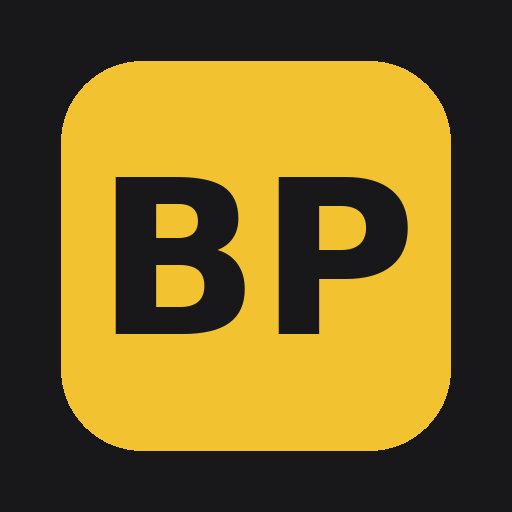
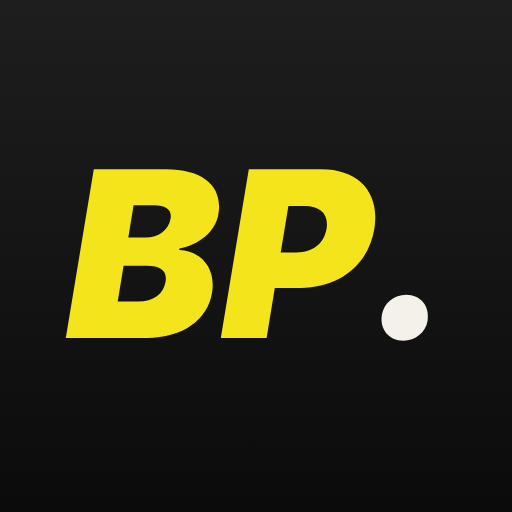
Add files via upload

diff --git a/index.html b/index.html
@@ -93,10 +93,10 @@ react-dom/cjs/react-dom-client.production.js:
 :root{
   --bg:#F4F3EF; --surface:#FFFFFF; --surface-2:#FAFAF7; --line:#E6E4DD; --line-2:#D9D6CC;
   --ink:#18181A; --ink-2:#3A3A3E; --muted:#7A786F; --faint:#A9A69B;
-  --accent:#F2C230; --accent-ink:#5C4500; --accent-soft:#FDF4D3;
+  --accent:#F4E41C; --accent-ink:#4A4300; --accent-soft:#FBF7CF;
   --side:#161618; --side-2:#232326; --side-ink:#ECEAE3; --side-muted:#8E8C84;
   --ok:#2F7D4F; --ok-soft:#E3F1E8; --warn:#B26A00; --warn-soft:#FBEBD2; --bad:#B23A2E; --bad-soft:#F7E0DC; --info:#2D5C8A; --info-soft:#E1EAF3;
-  --c-init:#9A988F; --c-inter:#F2C230; --c-final:#18181A;
+  --c-init:#9A988F; --c-inter:#F4E41C; --c-final:#18181A;
   --r:10px; --r-sm:7px;
 }
 *{box-sizing:border-box}
@@ -109,6 +109,7 @@ button,input,select,textarea{font:inherit;color:inherit}
 .side{background:var(--side);color:var(--side-ink);display:flex;flex-direction:column;overflow:auto}
 .brand{padding:20px 20px 16px;border-bottom:1px solid #2b2b2f}
 .brand-mark{display:flex;align-items:center;gap:10px}
+.brand-mark2 .wm{height:26px;width:auto;display:block}.brand-mark2 .mono{width:56px;height:56px;display:block;border-radius:13px;box-shadow:0 6px 18px rgba(0,0,0,.18)}.brand-sub{color:var(--side-muted);font-weight:700;letter-spacing:.2em;font-size:9.5px;margin-top:6px;padding-left:2px}
 .logo{width:30px;height:30px;border-radius:7px;background:var(--accent);color:#161618;display:grid;place-items:center;font-weight:800;font-size:13px;letter-spacing:-.5px}
 .brand-name{font-weight:800;letter-spacing:.06em;font-size:12.5px;line-height:1.15}
 .brand-name span{display:block;color:var(--side-muted);font-weight:600;letter-spacing:.14em;font-size:10px}
@@ -292,7 +293,7 @@ const html=htm.bind(React.createElement);
 /* =========================================================
    CONSTANTES
    ========================================================= */
-const APP_VERSION="0.9.7";
+const APP_VERSION="0.9.8";
 const SECURE=!!window.BPPS_SECURE;
 const STORE_KEY="bpps_store_v1";
 const STATUTS_PATIENT=["Actif","En pause","Terminé","Archivé"];
@@ -643,7 +644,7 @@ function Sidebar({db,view,setView,pid,setPid,saved,vault}){
   const p=db.patients.find(x=>x.id===pid);
   const opts=db.patients.filter(x=>x.statut!=="Archivé"||x.id===pid);
   return html`<aside className="side">
-    <div className="brand"><div className="brand-mark"><div className="logo">BP</div><div className="brand-name">BP PHYSIOSPORT<span>SUITE · v${APP_VERSION}</span></div></div></div>
+    <div className="brand"><div className="brand-mark2"><div dangerouslySetInnerHTML=${{__html:LOGO_DARK}}></div><div className="brand-sub">SUITE · v${APP_VERSION}</div></div></div>
     <div className="side-sec">
       <button className=${"nav-btn"+(view==="today"?" on":"")} onClick=${()=>setView("today")}><${Ico} n="cal"/>Aujourd'hui</button>
       <button className=${"nav-btn"+(view==="patients"?" on":"")} onClick=${()=>setView("patients")}><${Ico} n="users"/>Patients<span className="tag">${db.patients.filter(x=>x.statut!=="Archivé").length}</span></button>
@@ -664,7 +665,7 @@ function Sidebar({db,view,setView,pid,setPid,saved,vault}){
       ${NAV_GLOBAL.map(([k,l,ic,tag])=>html`<button key=${k} className=${"nav-btn"+(view===k?" on":"")} onClick=${()=>setView(k)}><${Ico} n=${ic}/>${l}${tag&&html`<span className="tag">${tag}</span>`}</button>`)}
     </div>
     <div className="side-foot">
-      <div><span className="dot" style=${{background:storage.ok?(saved?"#5BBE7F":"#F2C230"):"#D9584A"}}></span>${storage.ok?(saved?(vault?"Coffre chiffré · enregistré":"Enregistré dans ce navigateur"):"Enregistrement…"):"Stockage local indisponible"}</div>
+      <div><span className="dot" style=${{background:storage.ok?(saved?"#5BBE7F":"#F4E41C"):"#D9584A"}}></span>${storage.ok?(saved?(vault?"Coffre chiffré · enregistré":"Enregistré dans ce navigateur"):"Enregistrement…"):"Stockage local indisponible"}</div>
       ${vault?html`<button className="btn sm" style=${{marginTop:8,background:"transparent",color:"var(--side-ink)",borderColor:"#3a3a3f"}} onClick=${()=>vault.lock()}>🔒 Verrouiller</button>`:html`<div style=${{marginTop:6}}>Prototype · données fictives uniquement</div>`}
     </div>
   </aside>`;
@@ -886,7 +887,7 @@ const BC_ZONES={
   achille:{dos:{D:[71,230],G:[49,230]},label:"Tendon d'Achille"},
   cheville:{face:{D:[48,238],G:[72,238]},dos:{D:[72,238],G:[48,238]},label:"Cheville"}
 };
-const intensColor=v=>v>=7?"#B23A2E":v>=4?"#E08A1E":"#F2C230";
+const intensColor=v=>v>=7?"#B23A2E":v>=4?"#E08A1E":"#F4E41C";
 function Silhouette({vue,marks,label,big,onPick}){
   return html`<div style=${{textAlign:"center"}}>
     <svg viewBox="0 0 120 262" width="100%" style=${{maxWidth:big?230:130}}>
@@ -903,7 +904,7 @@ function Silhouette({vue,marks,label,big,onPick}){
       ${marks.map((m,i)=>{const z=BC_ZONES[m.zone];const pos=z&&z[vue]&&(z[vue][m.cote]||z[vue].B);if(!pos)return null;
         return html`<g key=${i}><circle cx=${pos[0]} cy=${pos[1]} r=${5+m.intensite*0.7} fill=${intensColor(m.intensite)} fillOpacity=".35" stroke=${intensColor(m.intensite)} strokeWidth="1.4"/><text x=${pos[0]} y=${pos[1]+3} textAnchor="middle" fontSize="8" fontWeight="800" fill="#18181A">${m.intensite}</text></g>`})}
       <text x="8" y="14" fontSize="8" fontWeight="700" fill="#A9A69B">${vue==="face"?"D":"G"}</text><text x="104" y="14" fontSize="8" fontWeight="700" fill="#A9A69B">${vue==="face"?"G":"D"}</text>
-    ${onPick&&Object.entries(BC_ZONES).flatMap(([k,z])=>z[vue]?Object.entries(z[vue]).map(([c,pos])=>html`<circle key=${k+c} className="bc-zone" cx=${pos[0]} cy=${pos[1]} r="7" fill="#F2C230" fillOpacity=".08" stroke="#9A988F" strokeWidth="0.8" strokeDasharray="2 2" style=${{cursor:"pointer"}} onClick=${()=>onPick(k,vue,c)}><title>Ajouter : ${z.label}${c==="B"?"":" "+sideLabel(c).toLowerCase()}</title></circle>`):[])}
+    ${onPick&&Object.entries(BC_ZONES).flatMap(([k,z])=>z[vue]?Object.entries(z[vue]).map(([c,pos])=>html`<circle key=${k+c} className="bc-zone" cx=${pos[0]} cy=${pos[1]} r="7" fill="#F4E41C" fillOpacity=".08" stroke="#9A988F" strokeWidth="0.8" strokeDasharray="2 2" style=${{cursor:"pointer"}} onClick=${()=>onPick(k,vue,c)}><title>Ajouter : ${z.label}${c==="B"?"":" "+sideLabel(c).toLowerCase()}</title></circle>`):[])}
       </svg>
     <div className="sub" style=${{fontWeight:700,fontSize:11.5,letterSpacing:".08em",textTransform:"uppercase"}}>${label}</div>
   </div>`;
@@ -1842,10 +1843,10 @@ function Gantt({phases}){
     <div style=${{position:"relative",paddingTop:18}}>
       ${months.map((mm,i)=>html`<div key=${i} style=${{position:"absolute",left:pct(mm)+"%",top:0,bottom:0,borderLeft:"1px dashed var(--line)"}}><span className="sub" style=${{fontSize:10.5,position:"absolute",top:0,left:4,whiteSpace:"nowrap"}}>${mm.toLocaleDateString("fr-FR",{month:"short",year:"2-digit"})}</span></div>`)}
       <div style=${{position:"absolute",left:pct(t)+"%",top:14,bottom:0,borderLeft:"2px solid var(--bad)",zIndex:2}}></div>
-      ${sortDate(phases,"debut").map(p=>{const s=parseD(p.debut),e=parseD(p.fin);if(!s)return null;const e2=e||new Date(+s+14*864e5);const c={"En cours":"#F2C230","À venir":"#FBE7A1","Terminée":"#C9C6BB","Suspendue":"#F0C98E"}[p.statut]||"#ddd";
+      ${sortDate(phases,"debut").map(p=>{const s=parseD(p.debut),e=parseD(p.fin);if(!s)return null;const e2=e||new Date(+s+14*864e5);const c={"En cours":"#F4E41C","À venir":"#FBE7A1","Terminée":"#C9C6BB","Suspendue":"#F0C98E"}[p.statut]||"#ddd";
         return html`<div key=${p.id} style=${{position:"relative",height:30,margin:"6px 0"}}><div title=${`${p.phase} ${p.cycle||""}`} style=${{position:"absolute",left:pct(s)+"%",width:Math.max(2,pct(e2)-pct(s))+"%",top:0,bottom:0,background:c,borderRadius:6,padding:"0 8px",display:"flex",alignItems:"center",fontSize:12,fontWeight:700,whiteSpace:"nowrap",overflow:"hidden",border:e?"":"1px dashed #999"}}>${p.phase}${p.cycle?" · "+p.cycle:""}</div></div>`})}
     </div>
-    <div className="legend" style=${{marginTop:10}}><span><i style=${{background:"var(--bad)",width:3}}></i>Aujourd'hui</span>${PH_STATUTS.map(s=>html`<span key=${s}><i style=${{background:{"En cours":"#F2C230","À venir":"#FBE7A1","Terminée":"#C9C6BB","Suspendue":"#F0C98E"}[s],height:8}}></i>${s}</span>`)}</div>
+    <div className="legend" style=${{marginTop:10}}><span><i style=${{background:"var(--bad)",width:3}}></i>Aujourd'hui</span>${PH_STATUTS.map(s=>html`<span key=${s}><i style=${{background:{"En cours":"#F4E41C","À venir":"#FBE7A1","Terminée":"#C9C6BB","Suspendue":"#F0C98E"}[s],height:8}}></i>${s}</span>`)}</div>
   </div>`;
 }
 function PlanifView(props){
@@ -1981,7 +1982,7 @@ function weeklyLoad(seances,nWeeks=8){
     weeks.push({start:s,tot,byType,n:ss.length,miss});}
   return weeks;
 }
-const TYPE_COL={"Kiné":"#18181A","Autonomie":"#9A988F","Entraînement club":"#F2C230","Match":"#B23A2E"};
+const TYPE_COL={"Kiné":"#18181A","Autonomie":"#9A988F","Entraînement club":"#F4E41C","Match":"#B23A2E"};
 function LoadChart({weeks,h=170,W=1000}){
   const max=Math.max(1,...weeks.map(w=>w.tot));const pad=34,bw=(W-pad*2)/weeks.length*0.62;
   return html`<svg viewBox=${`0 0 ${W} ${h+34}`} width="100%">
@@ -2468,7 +2469,7 @@ function BodyChartView({db,pid,openBilan}){
       <div className="card"><div style=${{display:"grid",gridTemplateColumns:"1fr 1fr",gap:10}}>
         <${Silhouette} vue="face" label="Face" big=${true} marks=${list.filter(m=>m.vue==="face").map(m=>({...m,intensite:num(m.intensite)??0}))}/>
         <${Silhouette} vue="dos" label="Dos" big=${true} marks=${list.filter(m=>m.vue==="dos").map(m=>({...m,intensite:num(m.intensite)??0}))}/></div>
-        <div className="legend" style=${{justifyContent:"center",marginTop:8}}><span><i style=${{background:"#F2C230",height:8}}></i>1–3</span><span><i style=${{background:"#E08A1E",height:8}}></i>4–6</span><span><i style=${{background:"#B23A2E",height:8}}></i>7–10</span></div></div>
+        <div className="legend" style=${{justifyContent:"center",marginTop:8}}><span><i style=${{background:"#F4E41C",height:8}}></i>1–3</span><span><i style=${{background:"#E08A1E",height:8}}></i>4–6</span><span><i style=${{background:"#B23A2E",height:8}}></i>7–10</span></div></div>
       <div className="card"><div className="card-h"><span className="card-t">Symptômes · ${b?fmtDs(b.date):""}</span></div>
         ${list.length===0?html`<div className="empty">Aucun symptôme cartographié dans ce bilan.</div>`:list.map((m,i)=>html`<div key=${i} className="def-row"><span style=${{width:10,height:10,borderRadius:"50%",background:intensColor(num(m.intensite)??0),flex:"none"}}></span><div className="d"><b>${BC_ZONES[m.zone]?.label||m.zone} ${m.cote!=="B"?sideLabel(m.cote).toLowerCase():""} · ${m.type}</b><span>${m.commentaire||""} (${m.vue})</span></div><span className="mono">${m.intensite}/10</span></div>`)}</div>
     </div>
@@ -2743,7 +2744,7 @@ const pwIssue=p=>p.length<10?"10 caractères minimum (une phrase de passe est id
 async function writeFiles(files,k){if(!files)return;for(const [id,f] of Object.entries(files)){const iv=crypto.getRandomValues(new Uint8Array(12));const ct=new Uint8Array(await crypto.subtle.encrypt({name:"AES-GCM",iv},k.key,b64d(f.b64)));await fileStore.put(id,{name:f.name,type:f.type,size:f.size,iv,ct})}}
 function VaultShell({children}){return html`<div style=${{minHeight:"100vh",display:"grid",placeItems:"center",background:"var(--side)",padding:20}}>
   <div style=${{width:"min(440px,100%)",background:"#fff",borderRadius:16,padding:"28px 26px",boxShadow:"0 30px 80px rgba(0,0,0,.4)"}}>
-    <div className="brand-mark" style=${{marginBottom:18}}><div className="logo">BP</div><div className="brand-name" style=${{color:"var(--ink)"}}>BP PHYSIOSPORT<span style=${{color:"var(--muted)"}}>SUITE · VERSION SÉCURISÉE</span></div></div>
+    <div className="brand-mark2" style=${{marginBottom:18}}><div dangerouslySetInnerHTML=${{__html:LOGO_ICON}} style=${{marginBottom:14}}></div><div dangerouslySetInnerHTML=${{__html:LOGO_LIGHT}}></div><div className="brand-sub" style=${{color:"var(--muted)"}}>SUITE · VERSION SÉCURISÉE</div></div>
     ${children}
     <div className="sub" style=${{fontSize:11.5,marginTop:18,borderTop:"1px solid var(--line)",paddingTop:12}}>Données chiffrées (AES-256) sur cet ordinateur uniquement. Aucune connexion internet. Le mot de passe n'est enregistré nulle part.</div>
   </div></div>`}
@@ -3131,7 +3132,7 @@ function CritStatus({db,pid,ph,bilan,compact}){
 
 /* ---------- Impression (fiche programme, compte rendu) ---------- */
 const PRINT_CSS=`body{font-family:-apple-system,Segoe UI,Helvetica,Arial,sans-serif;color:#18181A;max-width:780px;margin:28px auto;padding:0 24px;font-size:13.5px;line-height:1.5}
-h1{font-size:21px;margin:0 0 2px}h2{font-size:14px;text-transform:uppercase;letter-spacing:.08em;margin:22px 0 8px;border-bottom:2px solid #F2C230;padding-bottom:4px}
+h1{font-size:21px;margin:0 0 2px}h2{font-size:14px;text-transform:uppercase;letter-spacing:.08em;margin:22px 0 8px;border-bottom:2px solid #F4E41C;padding-bottom:4px}
 .hd{display:flex;justify-content:space-between;align-items:flex-end;border-bottom:1px solid #ddd;padding-bottom:12px;margin-bottom:8px}.mut{color:#777;font-size:12px}
 .ex{border:1px solid #e3e1da;border-radius:8px;padding:10px 12px;margin:8px 0;page-break-inside:avoid}.ex b{font-size:14.5px}.dose{font-family:Menlo,monospace;font-size:12.5px;margin-top:3px}
 table{border-collapse:collapse;width:100%}td,th{border-bottom:1px solid #eee;padding:5px 6px;text-align:left;font-size:12.5px}pre{white-space:pre-wrap;font-family:inherit}
@@ -3221,7 +3222,7 @@ function seanceSheet(d,pt){
 }
 
 const isPlanned=x=>x.statut==="Planifiée";
-const PH_COLORS=["#F2C230","#2D5C8A","#2F7D4F","#B23A2E","#8E5BB0","#D9773A","#3A9FA6"];
+const PH_COLORS=["#F4E41C","#2D5C8A","#2F7D4F","#B23A2E","#8E5BB0","#D9773A","#3A9FA6"];
 const dISO=d=>d.getFullYear()+"-"+pad(d.getMonth()+1,2)+"-"+pad(d.getDate(),2);
 const isoWeek=d=>{const t=new Date(Date.UTC(d.getFullYear(),d.getMonth(),d.getDate()));const n=t.getUTCDay()||7;t.setUTCDate(t.getUTCDate()+4-n);const y=new Date(Date.UTC(t.getUTCFullYear(),0,1));return Math.ceil(((t-y)/864e5+1)/7)};
 const MOIS=["Janvier","Février","Mars","Avril","Mai","Juin","Juillet","Août","Septembre","Octobre","Novembre","Décembre"];
@@ -3933,7 +3934,7 @@ function fmsSentence(e){if(e.enabled?.fms===false||!e.fms)return null;const r=fm
 
 /* ---------- V0.9.4 — Compte rendu imprimable structuré par section ---------- */
 const PRINT_CSS2=`body{font-family:-apple-system,Segoe UI,Helvetica,Arial,sans-serif;color:#18181A;max-width:820px;margin:24px auto;padding:0 22px;font-size:12.5px;line-height:1.45}
-h1{font-size:20px;margin:0 0 2px;letter-spacing:.01em}h2{font-size:12px;text-transform:uppercase;letter-spacing:.1em;margin:18px 0 6px;padding:5px 8px;background:#F7F2DD;border-left:4px solid #F2C230;page-break-after:avoid}
+h1{font-size:20px;margin:0 0 2px;letter-spacing:.01em}h2{font-size:12px;text-transform:uppercase;letter-spacing:.1em;margin:18px 0 6px;padding:5px 8px;background:#F7F2DD;border-left:4px solid #F4E41C;page-break-after:avoid}
 h3{font-size:12px;margin:10px 0 4px}.hd{display:flex;justify-content:space-between;align-items:flex-start;border-bottom:2px solid #18181A;padding-bottom:10px;margin-bottom:10px}
 .mut{color:#777;font-size:11.5px}.idg{display:grid;grid-template-columns:repeat(3,1fr);gap:4px 16px;margin:8px 0 4px}.idg div{font-size:12px}.idg b{display:block;font-size:10px;text-transform:uppercase;letter-spacing:.06em;color:#888;font-weight:700}
 table{border-collapse:collapse;width:100%;margin:4px 0 6px;page-break-inside:avoid}th{font-size:10px;text-transform:uppercase;letter-spacing:.05em;color:#666;text-align:right;border-bottom:1.5px solid #ccc;padding:4px 6px}th:first-child{text-align:left}
@@ -4117,7 +4118,8 @@ function plModeleGenou(pid){
 function plResize(p,nP,nC,nS){
   const lastG=p.phases.length?plCurLabels(p.phases[p.phases.length-1].cycles.slice(-1)[0]):PL_GROUPS;
   const phases=Array.from({length:nP},(_,i)=>{const ph=p.phases[i]?JSON.parse(JSON.stringify(p.phases[i])):plPhase(i,nC,nS,lastG);
-    ph.cycles=Array.from({length:nC},(_,j)=>{const c=ph.cycles[j]||plCycle(nS,ph.cycles.length?plCurLabels(ph.cycles[ph.cycles.length-1]):lastG);c.seances=Array.from({length:nS},(_,k)=>c.seances?.[k]||plSeance());return c});return ph});
+    const len=p.phases[i]&&nC===p.nC?ph.cycles.length:nC;
+    ph.cycles=Array.from({length:len},(_,j)=>{const c=ph.cycles[j]||plCycle(nS,ph.cycles.length?plCurLabels(ph.cycles[ph.cycles.length-1]):lastG);c.seances=Array.from({length:nS},(_,k)=>c.seances?.[k]||plSeance());return c});return ph});
   const jours=(p.jours||[]).length===p.nS&&nS!==p.nS?PL_DEFDAYS[nS]:p.jours;
   return {...p,nC,nS,jours,phases};
 }
@@ -4272,12 +4274,17 @@ function GlobalPlanView({db,pid,act,toast,goTab}){
     <div className="sub" style=${{fontSize:12,marginBottom:14}}>${gsCur.g.join(" · ")}</div>
     <div className="row"><button className="btn yellow" onClick=${()=>create("vide")}><${Ico} n="plus" s=${15} w=${2.2}/>Plan vierge (3 × 3)</button><button className="btn" onClick=${()=>create("genou")}>Partir de mon modèle genou (Excel)</button></div></div>`;
   const nP=d.phases.length,nC=d.nC||3,nS=d.nS||3;const sch=plSchedule(d);const sAt=(i,j)=>sch.find(x=>x.i===i&&x.j===j);
-  const setN=(a,b,c)=>setD(x=>plResize(x,Math.max(1,Math.min(6,a)),Math.max(1,Math.min(6,b)),Math.max(1,Math.min(6,c))));
+  const setN=(a,b,c)=>setD(x=>plResize(x,Math.max(1,Math.min(6,a)),Math.max(1,Math.min(8,b)),Math.max(1,Math.min(6,c))));
+  const sameC=d.phases.every(ph=>ph.cycles.length===nC);
+  const setPhC=(i,n)=>upd(y=>{const ph=y.phases[i];n=Math.max(1,Math.min(8,n));const G=plCurLabels(ph.cycles[ph.cycles.length-1]);
+    if(n<ph.cycles.length){const lost=ph.cycles.slice(n).some(c=>c.params.some(pp=>Object.values(pp).some(Boolean))||c.groupes.some(g=>g.exos));if(lost&&!confirm("Le dernier cycle contient des données : le supprimer ?"))return}
+    while(ph.cycles.length<n)ph.cycles.push(plCycle(y.nS,G));ph.cycles=ph.cycles.slice(0,n)});
   const step=(l,v,on)=>html`<div className="row" style=${{gap:4}}><span className="sub" style=${{fontWeight:700,fontSize:12}}>${l}</span><button className="btn sm" onClick=${()=>on(v-1)} disabled=${v<=1}>−</button><b className="mono" style=${{minWidth:14,textAlign:"center"}}>${v}</b><button className="btn sm" onClick=${()=>on(v+1)} disabled=${v>=6}>+</button></div>`;
   const askApply=()=>{const nd=dirty||!d.id?persist():d;const stt=applyPlanToDb(db,{...nd,patientId:pid},true);setConf({pl:nd,st:stt})};
   const doApply=()=>{act.applyPlan({...conf.pl,patientId:pid});toast("Planning mis à jour : phases & cycles + calendrier");setConf(null)};
   const phaseHead=(ph,i)=>html`<div style=${{background:ph.couleur,padding:"8px 10px",display:"flex",alignItems:"center",gap:8,position:"sticky",top:0,zIndex:2}}>
     <input value=${ph.nom} onChange=${e=>upd(y=>{y.phases[i].nom=e.target.value})} style=${{flex:1,border:0,background:"transparent",fontWeight:800,fontSize:15,textAlign:"center",color:"#18181A",minWidth:0}}/>
+    <div className="row" style=${{gap:3,background:"rgba(255,255,255,.55)",borderRadius:20,padding:"2px 4px"}}><button className="btn sm ghost" style=${{padding:"0 8px",minHeight:26}} disabled=${ph.cycles.length<=1} onClick=${()=>setPhC(i,ph.cycles.length-1)}>−</button><b style=${{fontSize:12.5,color:"#18181A",whiteSpace:"nowrap"}}>${ph.cycles.length} cycle${ph.cycles.length>1?"s":""}</b><button className="btn sm ghost" style=${{padding:"0 8px",minHeight:26}} disabled=${ph.cycles.length>=8} onClick=${()=>setPhC(i,ph.cycles.length+1)}>+</button></div>
     <div className="row" style=${{gap:3}}>${PL_COLORS.map(c=>html`<button key=${c} title="Couleur" onClick=${()=>upd(y=>{y.phases[i].couleur=c})} style=${{width:13,height:13,borderRadius:7,border:ph.couleur===c?"2px solid #18181A":"1px solid rgba(0,0,0,.25)",background:c,padding:0,cursor:"pointer"}}></button>`)}</div></div>`;
   const objBlock=(ph,i)=>html`<div style=${{padding:"8px 12px",borderBottom:"1px solid var(--line)",background:"var(--surface-2)"}}>
     <div className="mini-t" style=${{marginTop:0}}>Objectifs <span className="sub" style=${{fontWeight:500,textTransform:"none",letterSpacing:0}}>· un par ligne, par priorité (le 1er devient l'objectif principal du cycle)</span></div>
@@ -4294,7 +4301,7 @@ function GlobalPlanView({db,pid,act,toast,goTab}){
         <table style="width:100%"><tr>${c.seances.map((x,k)=>`<th>Séance ${k+1}</th>`).join("")}</tr><tr>${c.seances.map(x=>`<td style="vertical-align:top;text-align:left">${(x.blocs||[]).map(b=>esc(b.g+(two&&c.labels?.[b.col]?" ("+c.labels[b.col]+")":""))).join("<br>")}${x.note?"<br><i>"+esc(x.note)+"</i>":""}</td>`).join("")}</tr></table>
         <table style="width:100%">${c.groupes.filter(g=>g.label||g.exos).map(g=>`<tr><td class="l">${esc(g.label)}</td><td style="text-align:left">${esc(g.exos)}</td></tr>`).join("")}</table></div>`}).join("")}
       <div class="cr"><i>${i<nP-1?"Critères de passage "+esc(d.phases[i+1].nom):"Critères RTS"}</i>${esc(ph.criteres||"—").replace(/\n/g,"<br>")}</div></div>`;
-    printDoc(d.nom,`<style>${PRINT_CSS2}${css}</style><h1 style="font-size:15px">${esc(d.nom)}</h1><div class="mut" style="margin-bottom:6px">${esc(fullName(p||{}))} · ${nP} phase(s) × ${nC} cycle(s) · du ${fmtD(sch[0]?.start)} au ${fmtD(sch[sch.length-1]?.end)}</div><div class="pg">${d.phases.map(col).join("")}</div>`,toast)};
+    printDoc(d.nom,`<style>${PRINT_CSS2}${css}</style><h1 style="font-size:15px">${esc(d.nom)}</h1><div class="mut" style="margin-bottom:6px">${esc(fullName(p||{}))} · ${nP} phase(s) · ${d.phases.reduce((t,ph)=>t+ph.cycles.length,0)} cycle(s) · du ${fmtD(sch[0]?.start)} au ${fmtD(sch[sch.length-1]?.end)}</div><div class="pg">${d.phases.map(col).join("")}</div>`,toast)};
   const shown=mode==="all"?d.phases.map((_,i)=>i):[Math.min(focus,nP-1)];
   return html`<div>
     <div className="card" style=${{padding:"12px 14px",marginBottom:12}}>
@@ -4308,7 +4315,7 @@ function GlobalPlanView({db,pid,act,toast,goTab}){
         <button className="btn yellow" onClick=${askApply}>Appliquer au planning →</button>
       </div>
       <div className="row" style=${{flexWrap:"wrap",gap:14,marginTop:10}}>
-        ${step("Phases",nP,v=>setN(v,nC,nS))}${step("Cycles / phase",nC,v=>setN(nP,v,nS))}${step("Séances / semaine",nS,v=>setN(nP,nC,v))}
+        ${step("Phases",nP,v=>setN(v,nC,nS))}${html`<div className="row" style=${{gap:4}}><span className="sub" style=${{fontWeight:700,fontSize:12}}>Cycles / phase</span><button className="btn sm" onClick=${()=>setN(nP,nC-1,nS)} disabled=${nC<=1}>−</button><b className="mono" style=${{minWidth:14,textAlign:"center"}}>${sameC?nC:"≠"}</b><button className="btn sm" onClick=${()=>setN(nP,nC+1,nS)} disabled=${nC>=8}>+</button>${!sameC&&html`<span className="sub" style=${{fontSize:11}}>(réglé par phase)</span>`}</div>`}${step("Séances / semaine",nS,v=>setN(nP,nC,v))}
         ${d.jours.length<nS&&html`<span className="warn-t" style=${{fontSize:12}}>${nS} séances pour ${d.jours.length} jour(s) cochés : des séances tomberont la semaine suivante.</span>`}
         <div className="spacer"></div>
         <div className="seg"><button className=${mode==="all"?"on":""} onClick=${()=>setMode("all")}>Toutes les phases</button><button className=${mode==="phase"?"on":""} onClick=${()=>setMode("phase")}>Phase par phase</button></div>
@@ -4332,15 +4339,16 @@ function GlobalPlanView({db,pid,act,toast,goTab}){
     <${PlTimeline} pl=${d} sch=${sch} focus=${mode==="phase"?Math.min(focus,nP-1):null} onFocus=${i=>{setFocus(i);if(mode==="all"){const el=document.getElementById("plph-"+i);if(el)el.scrollIntoView({behavior:"smooth",inline:"start",block:"nearest"})}}}/>
     ${d.appliedAt&&html`<div className="sub" style=${{fontSize:12,marginBottom:8}}>Dernière application au planning : ${new Date(d.appliedAt).toLocaleString("fr-FR")}${dirty?" · modifications non appliquées":""}</div>`}
     ${mode==="phase"&&html`<div className="seg" style=${{marginBottom:10}}>${d.phases.map((ph,i)=>html`<button key=${i} className=${Math.min(focus,nP-1)===i?"on":""} onClick=${()=>setFocus(i)}><i style=${{display:"inline-block",width:9,height:9,borderRadius:5,background:ph.couleur,marginRight:6}}></i>${ph.nom}</button>`)}</div>`}
-    <div style=${{overflowX:"auto",paddingBottom:8}}>
+    ${mode==="all"&&html`<div className="row" style=${{gap:6,marginBottom:6}}><span className="sub" style=${{fontSize:12}}>Défiler :</span><button className="btn sm" onClick=${()=>document.getElementById("plscroll")?.scrollBy({left:-440,behavior:"smooth"})}>◀</button><button className="btn sm" onClick=${()=>document.getElementById("plscroll")?.scrollBy({left:440,behavior:"smooth"})}>▶</button></div>`}
+    <div id="plscroll" style=${{overflowX:mode==="all"?"auto":"visible",paddingBottom:8,WebkitOverflowScrolling:"touch"}}>
       ${mode==="all"?html`<div style=${{display:"grid",gridTemplateColumns:`repeat(${nP},minmax(420px,1fr))`,border:"1px solid var(--line)",borderRadius:12,overflow:"hidden",background:"var(--surface)",minWidth:nP*420}}>
         ${d.phases.map((ph,i)=>html`<div key=${i} id=${"plph-"+i} style=${{borderRight:i<nP-1?"2px solid var(--ink)":"",display:"flex",flexDirection:"column"}}>
           ${phaseHead(ph,i)}${objBlock(ph,i)}
-          ${ph.cycles.map((c,j)=>html`<div key=${j} style=${{borderBottom:j<nC-1?"5px solid var(--ink)":"1px solid var(--line)"}}><${PlCycleBlock} db=${db} d=${d} i=${i} j=${j} sx=${sAt(i,j)} upd=${upd} act=${act} toast=${toast}/></div>`)}
+          ${ph.cycles.map((c,j)=>html`<div key=${j} style=${{borderBottom:j<ph.cycles.length-1?"5px solid var(--ink)":"1px solid var(--line)"}}><${PlCycleBlock} db=${db} d=${d} i=${i} j=${j} sx=${sAt(i,j)} upd=${upd} act=${act} toast=${toast}/></div>`)}
           <div style=${{marginTop:"auto"}}>${critBlock(ph,i)}</div></div>`)}
       </div>`:shown.map(i=>{const ph=d.phases[i];return html`<div key=${i} style=${{border:"1px solid var(--line)",borderRadius:12,overflow:"hidden",background:"var(--surface)"}}>
           ${phaseHead(ph,i)}${objBlock(ph,i)}
-          <div style=${{display:"grid",gridTemplateColumns:`repeat(${nC},minmax(380px,1fr))`,minWidth:nC*380}}>${ph.cycles.map((c,j)=>html`<div key=${j} style=${{borderRight:j<nC-1?"4px solid var(--ink)":""}}><${PlCycleBlock} db=${db} d=${d} i=${i} j=${j} sx=${sAt(i,j)} upd=${upd} act=${act} toast=${toast}/></div>`)}</div>
+          <div style=${{display:"grid",gridTemplateColumns:"repeat(auto-fill,minmax(min(100%,400px),1fr))",gap:10,padding:10}}>${ph.cycles.map((c,j)=>html`<div key=${j} id=${"plcy-"+i+"-"+j} style=${{border:"1px solid var(--line)",borderTop:"5px solid "+ph.couleur,borderRadius:10,background:"var(--surface)",minWidth:0}}><${PlCycleBlock} db=${db} d=${d} i=${i} j=${j} sx=${sAt(i,j)} upd=${upd} act=${act} toast=${toast}/></div>`)}</div>
           ${critBlock(ph,i)}</div>`})}
     </div></div>`}
     <${ExDatalist} db=${db} id="pl-exlist"/>
@@ -4492,6 +4500,9 @@ function PlQualView({d,q,upd,toast,onOpen}){
   </div>`;
 }
 
+const LOGO_DARK=`<svg class="wm" xmlns="http://www.w3.org/2000/svg" viewBox="0 0 657 120"><path d="M14 10 H172 L158 110 H0 Z" fill="#F4E41C"/><path transform="translate(22,92)" d="M0.1 0H30.1C43.6 0 52.7 -6.9 54.3 -16.6C55.8 -26 50.2 -32.3 42.2 -32.6V-33.1C49.6 -34.5 55.6 -39.5 56.7 -45.9C58.4 -55.9 51.5 -62.6 37.2 -62.6H10.5ZM19.4 -13.5 21.5 -26.8H30.2C35.3 -26.8 37.8 -24.9 37.1 -21C36.4 -16.3 32.5 -13.5 26.9 -13.5ZM23.3 -37.3 25.2 -49.2H32.9C37.1 -49.2 39.5 -47.6 39 -44.3C38.3 -39.9 34.3 -37.3 29.8 -37.3ZM57.6 0H74.5L77.6 -18.6H87C101.3 -18.6 112.2 -27 114.5 -40.4C116.7 -53.8 108.8 -62.6 94.9 -62.6H67.9ZM79.8 -31.7 82.6 -49H88.6C94.6 -49 97.7 -45.8 96.8 -40.4C95.9 -35.1 91.8 -31.7 85.7 -31.7Z" fill="#111111"/><path transform="translate(181.8,84)" d="M0.1 0H11.1L13.1 -12.1H19.2C28.5 -12.1 35.7 -17.6 37.1 -26.3C38.6 -35 33.5 -40.7 24.4 -40.7H6.8ZM14.5 -20.7 16.4 -31.9H20.3C24.2 -31.9 26.2 -29.8 25.6 -26.3C25 -22.9 22.3 -20.7 18.4 -20.7ZM37.8 0H48.9L51.6 -16.4H66.2L63.5 0H74.6L81.3 -40.7H70.3L67.7 -25.3H53L55.6 -40.7H44.6ZM94.6 0H105.6L108 -14.2L127.1 -40.7H113.7L106.2 -28.4C105.2 -26.9 104.5 -25.4 103.7 -23.7C103.4 -25.4 103 -26.9 102.6 -28.4L98.7 -40.7H86.2L97 -14.2ZM142.4 0.5C152.7 0.5 159 -4 160.3 -12C161.3 -18.2 158.3 -22.6 149.6 -24.5L146.4 -25.2C142.7 -26 141.2 -27.2 141.6 -29.1C141.9 -30.9 143.6 -32.2 147 -32.2C150.6 -32.2 152.1 -30.7 151.8 -28H162.4C163.7 -36 157.7 -41.3 147.9 -41.3C138.2 -41.3 131.2 -36.1 129.9 -28.3C128.9 -22 132.7 -18.4 139.6 -16.8L143.6 -16C147.9 -15 149.3 -13.9 149 -12C148.7 -10 146.6 -8.6 143.1 -8.6C138.8 -8.6 136.6 -10.6 137.1 -14.3H126.6C124.9 -4.1 131.7 0.5 142.4 0.5ZM181.3 -40.7H170.3L163.5 0H174.6ZM200.4 0.5C214.3 0.5 223.4 -10.7 223.4 -24.4C223.4 -35.3 216.2 -41.3 206.2 -41.3C192.2 -41.3 183.2 -30 183.2 -16.3C183.2 -5.4 190.4 0.5 200.4 0.5ZM200.9 -9.1C196.6 -9.1 194.5 -11.5 194.5 -16.2C194.5 -23.1 197.8 -31.7 205.8 -31.7C210 -31.7 212.2 -29.2 212.2 -24.5C212.2 -17.6 208.8 -9.1 200.9 -9.1ZM254.6 0.5C264.9 0.5 271.2 -4 272.5 -12C273.5 -18.2 270.5 -22.6 261.8 -24.5L258.6 -25.2C254.9 -26 253.5 -27.2 253.8 -29.1C254.1 -30.9 255.8 -32.2 259.2 -32.2C262.8 -32.2 264.3 -30.7 264 -28H274.6C275.9 -36 270 -41.3 260.1 -41.3C250.4 -41.3 243.4 -36.1 242.2 -28.3C241.1 -22 244.9 -18.4 251.8 -16.8L255.8 -16C260.1 -15 261.6 -13.9 261.3 -12C260.9 -10 258.8 -8.6 255.3 -8.6C251 -8.6 248.9 -10.6 249.3 -14.3H238.8C237.2 -4.1 244 0.5 254.6 0.5ZM275.8 0H286.8L288.8 -12.1H294.9C304.2 -12.1 311.4 -17.6 312.8 -26.3C314.2 -35 309.1 -40.7 300.1 -40.7H282.5ZM290.2 -20.7 292.1 -31.9H296C299.9 -31.9 301.9 -29.8 301.3 -26.3C300.7 -22.9 298 -20.7 294.1 -20.7ZM333.1 0.5C347 0.5 356 -10.7 356 -24.4C356 -35.3 348.9 -41.3 338.9 -41.3C324.9 -41.3 315.9 -30 315.9 -16.3C315.9 -5.4 323 0.5 333.1 0.5ZM333.5 -9.1C329.3 -9.1 327.1 -11.5 327.1 -16.2C327.1 -23.1 330.5 -31.7 338.4 -31.7C342.7 -31.7 344.8 -29.2 344.8 -24.5C344.8 -17.6 341.5 -9.1 333.5 -9.1ZM357.9 0H369L371.2 -13.5H375L380 0H392L386.2 -15.2C390.9 -17.3 394.2 -21.2 395.1 -26.9C396.5 -35.5 391.3 -40.7 382.3 -40.7H364.7ZM372.6 -22 374.3 -31.9H378.2C382.1 -31.9 384.1 -30.4 383.6 -26.9C383 -23.4 380.4 -22 376.5 -22ZM400.5 -31.8H412.7L407.4 0H418.5L423.8 -31.8H435.9L437.4 -40.7H402Z" fill="#F4F1EA"/><path transform="translate(614.6,84)" d="M8.4 0.7C11.3 0.7 13.8 -1.4 14.2 -4.2C14.8 -7.7 12.6 -10.4 9.1 -10.4C6.2 -10.4 3.7 -8.4 3.2 -5.6C2.6 -2.1 4.9 0.7 8.4 0.7Z" fill="#F4E41C"/></svg>`;
+const LOGO_ICON=`<svg class="mono" xmlns="http://www.w3.org/2000/svg" viewBox="0 0 512 512"><defs><linearGradient id="gm" x1="0" y1="0" x2="0" y2="1"><stop offset="0" stop-color="#1E1E1E"/><stop offset="1" stop-color="#0B0B0B"/></linearGradient></defs><rect width="512" height="512" rx="113" fill="url(#gm)"/><path transform="translate(65.5,338)" d="M0.3 0H81.1C117.7 0 142.2 -18.6 146.5 -44.9C150.7 -70.1 135.4 -87.1 113.8 -87.9V-89.4C133.7 -93.1 150.1 -106.5 152.9 -123.7C157.5 -150.8 138.9 -168.8 100.4 -168.8H28.3ZM52.2 -36.5 58.1 -72.3H81.4C95.3 -72.3 101.8 -67.1 100.1 -56.6C98.1 -44 87.8 -36.5 72.5 -36.5ZM62.8 -100.6 68.1 -132.8H88.8C100.1 -132.8 106.6 -128.5 105.1 -119.6C103.2 -107.7 92.4 -100.6 80.4 -100.6ZM155.3 0H201.1L209.3 -50.1H234.7C273.2 -50.1 302.8 -72.7 308.8 -109C314.8 -145 293.6 -168.8 256 -168.8H183.3ZM215.2 -85.6 222.9 -132.1H239C255.2 -132.1 263.5 -123.6 261 -109C258.6 -94.7 247.5 -85.6 231.3 -85.6Z" fill="#F4E41C"/><path transform="translate(368.6,338)" d="M34.7 2.7C46.8 2.7 57.1 -5.7 59 -17.3C61.4 -31.9 52 -43.3 37.6 -43.3C25.5 -43.3 15.2 -34.9 13.3 -23.2C10.9 -8.6 20.3 2.7 34.7 2.7Z" fill="#F4F1EA"/></svg>`;
+const LOGO_LIGHT=`<svg class="wm" xmlns="http://www.w3.org/2000/svg" viewBox="0 0 657 120"><path d="M14 10 H172 L158 110 H0 Z" fill="#F4E41C"/><path transform="translate(22,92)" d="M0.1 0H30.1C43.6 0 52.7 -6.9 54.3 -16.6C55.8 -26 50.2 -32.3 42.2 -32.6V-33.1C49.6 -34.5 55.6 -39.5 56.7 -45.9C58.4 -55.9 51.5 -62.6 37.2 -62.6H10.5ZM19.4 -13.5 21.5 -26.8H30.2C35.3 -26.8 37.8 -24.9 37.1 -21C36.4 -16.3 32.5 -13.5 26.9 -13.5ZM23.3 -37.3 25.2 -49.2H32.9C37.1 -49.2 39.5 -47.6 39 -44.3C38.3 -39.9 34.3 -37.3 29.8 -37.3ZM57.6 0H74.5L77.6 -18.6H87C101.3 -18.6 112.2 -27 114.5 -40.4C116.7 -53.8 108.8 -62.6 94.9 -62.6H67.9ZM79.8 -31.7 82.6 -49H88.6C94.6 -49 97.7 -45.8 96.8 -40.4C95.9 -35.1 91.8 -31.7 85.7 -31.7Z" fill="#111111"/><path transform="translate(181.8,84)" d="M0.1 0H11.1L13.1 -12.1H19.2C28.5 -12.1 35.7 -17.6 37.1 -26.3C38.6 -35 33.5 -40.7 24.4 -40.7H6.8ZM14.5 -20.7 16.4 -31.9H20.3C24.2 -31.9 26.2 -29.8 25.6 -26.3C25 -22.9 22.3 -20.7 18.4 -20.7ZM37.8 0H48.9L51.6 -16.4H66.2L63.5 0H74.6L81.3 -40.7H70.3L67.7 -25.3H53L55.6 -40.7H44.6ZM94.6 0H105.6L108 -14.2L127.1 -40.7H113.7L106.2 -28.4C105.2 -26.9 104.5 -25.4 103.7 -23.7C103.4 -25.4 103 -26.9 102.6 -28.4L98.7 -40.7H86.2L97 -14.2ZM142.4 0.5C152.7 0.5 159 -4 160.3 -12C161.3 -18.2 158.3 -22.6 149.6 -24.5L146.4 -25.2C142.7 -26 141.2 -27.2 141.6 -29.1C141.9 -30.9 143.6 -32.2 147 -32.2C150.6 -32.2 152.1 -30.7 151.8 -28H162.4C163.7 -36 157.7 -41.3 147.9 -41.3C138.2 -41.3 131.2 -36.1 129.9 -28.3C128.9 -22 132.7 -18.4 139.6 -16.8L143.6 -16C147.9 -15 149.3 -13.9 149 -12C148.7 -10 146.6 -8.6 143.1 -8.6C138.8 -8.6 136.6 -10.6 137.1 -14.3H126.6C124.9 -4.1 131.7 0.5 142.4 0.5ZM181.3 -40.7H170.3L163.5 0H174.6ZM200.4 0.5C214.3 0.5 223.4 -10.7 223.4 -24.4C223.4 -35.3 216.2 -41.3 206.2 -41.3C192.2 -41.3 183.2 -30 183.2 -16.3C183.2 -5.4 190.4 0.5 200.4 0.5ZM200.9 -9.1C196.6 -9.1 194.5 -11.5 194.5 -16.2C194.5 -23.1 197.8 -31.7 205.8 -31.7C210 -31.7 212.2 -29.2 212.2 -24.5C212.2 -17.6 208.8 -9.1 200.9 -9.1ZM254.6 0.5C264.9 0.5 271.2 -4 272.5 -12C273.5 -18.2 270.5 -22.6 261.8 -24.5L258.6 -25.2C254.9 -26 253.5 -27.2 253.8 -29.1C254.1 -30.9 255.8 -32.2 259.2 -32.2C262.8 -32.2 264.3 -30.7 264 -28H274.6C275.9 -36 270 -41.3 260.1 -41.3C250.4 -41.3 243.4 -36.1 242.2 -28.3C241.1 -22 244.9 -18.4 251.8 -16.8L255.8 -16C260.1 -15 261.6 -13.9 261.3 -12C260.9 -10 258.8 -8.6 255.3 -8.6C251 -8.6 248.9 -10.6 249.3 -14.3H238.8C237.2 -4.1 244 0.5 254.6 0.5ZM275.8 0H286.8L288.8 -12.1H294.9C304.2 -12.1 311.4 -17.6 312.8 -26.3C314.2 -35 309.1 -40.7 300.1 -40.7H282.5ZM290.2 -20.7 292.1 -31.9H296C299.9 -31.9 301.9 -29.8 301.3 -26.3C300.7 -22.9 298 -20.7 294.1 -20.7ZM333.1 0.5C347 0.5 356 -10.7 356 -24.4C356 -35.3 348.9 -41.3 338.9 -41.3C324.9 -41.3 315.9 -30 315.9 -16.3C315.9 -5.4 323 0.5 333.1 0.5ZM333.5 -9.1C329.3 -9.1 327.1 -11.5 327.1 -16.2C327.1 -23.1 330.5 -31.7 338.4 -31.7C342.7 -31.7 344.8 -29.2 344.8 -24.5C344.8 -17.6 341.5 -9.1 333.5 -9.1ZM357.9 0H369L371.2 -13.5H375L380 0H392L386.2 -15.2C390.9 -17.3 394.2 -21.2 395.1 -26.9C396.5 -35.5 391.3 -40.7 382.3 -40.7H364.7ZM372.6 -22 374.3 -31.9H378.2C382.1 -31.9 384.1 -30.4 383.6 -26.9C383 -23.4 380.4 -22 376.5 -22ZM400.5 -31.8H412.7L407.4 0H418.5L423.8 -31.8H435.9L437.4 -40.7H402Z" fill="#111111"/><path transform="translate(614.6,84)" d="M8.4 0.7C11.3 0.7 13.8 -1.4 14.2 -4.2C14.8 -7.7 12.6 -10.4 9.1 -10.4C6.2 -10.4 3.7 -8.4 3.2 -5.6C2.6 -2.1 4.9 0.7 8.4 0.7Z" fill="#111111"/></svg>`;
 /* =========================================================
    MODULES À VENIR (lecture des données existantes)
    ========================================================= */

diff --git a/sw.js b/sw.js
@@ -1,5 +1,5 @@
 // BP PhysioSport Suite — fonctionnement hors ligne. Ne met en cache que le code de l'application, jamais de données patients.
-const CACHE="bpps-0.9.7";const FILES=["./","index.html","manifest.webmanifest","icon-180.png","icon-192.png","icon-512.png"];
+const CACHE="bpps-0.9.8";const FILES=["./","index.html","manifest.webmanifest","icon-180.png","icon-192.png","icon-512.png"];
 self.addEventListener("install",e=>{e.waitUntil(caches.open(CACHE).then(c=>c.addAll(FILES)).then(()=>self.skipWaiting()))});
 self.addEventListener("activate",e=>{e.waitUntil(caches.keys().then(ks=>Promise.all(ks.filter(k=>k!==CACHE).map(k=>caches.delete(k)))).then(()=>self.clients.claim()))});
 self.addEventListener("fetch",e=>{const r=e.request;if(r.method!=="GET"||new URL(r.url).origin!==location.origin)return;
